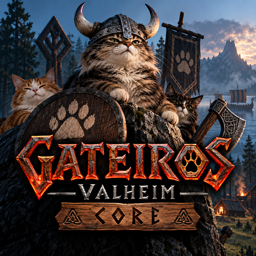
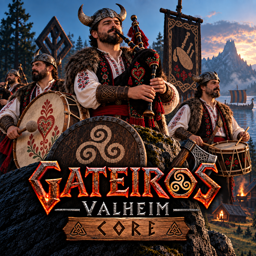
Release Valheim pack 0.1.2

diff --git a/package/CHANGELOG.md b/package/CHANGELOG.md
@@ -1,5 +1,9 @@
 # Changelog
 
+## 0.1.2
+
+- Replace the package icon.
+
 ## 0.1.1
 
 - Replace the package icon.
